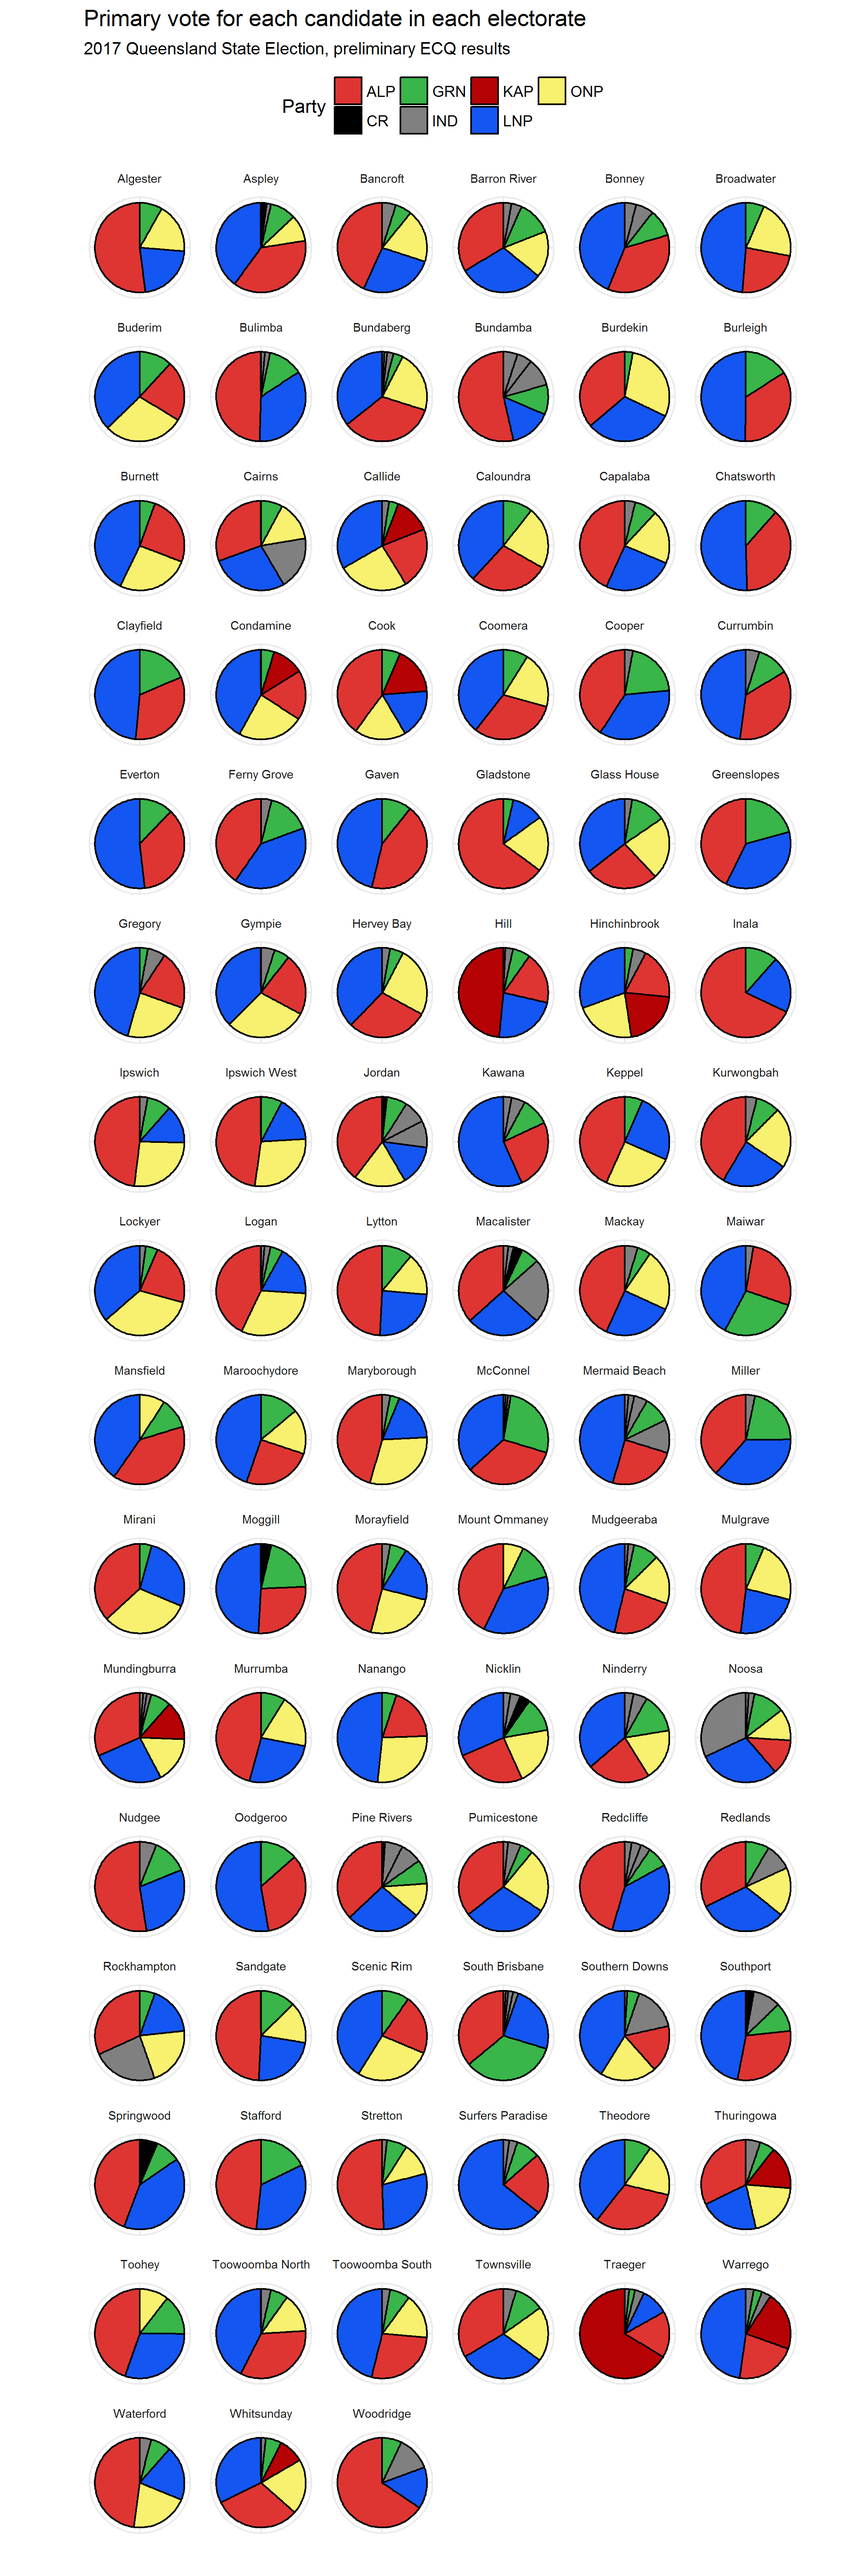
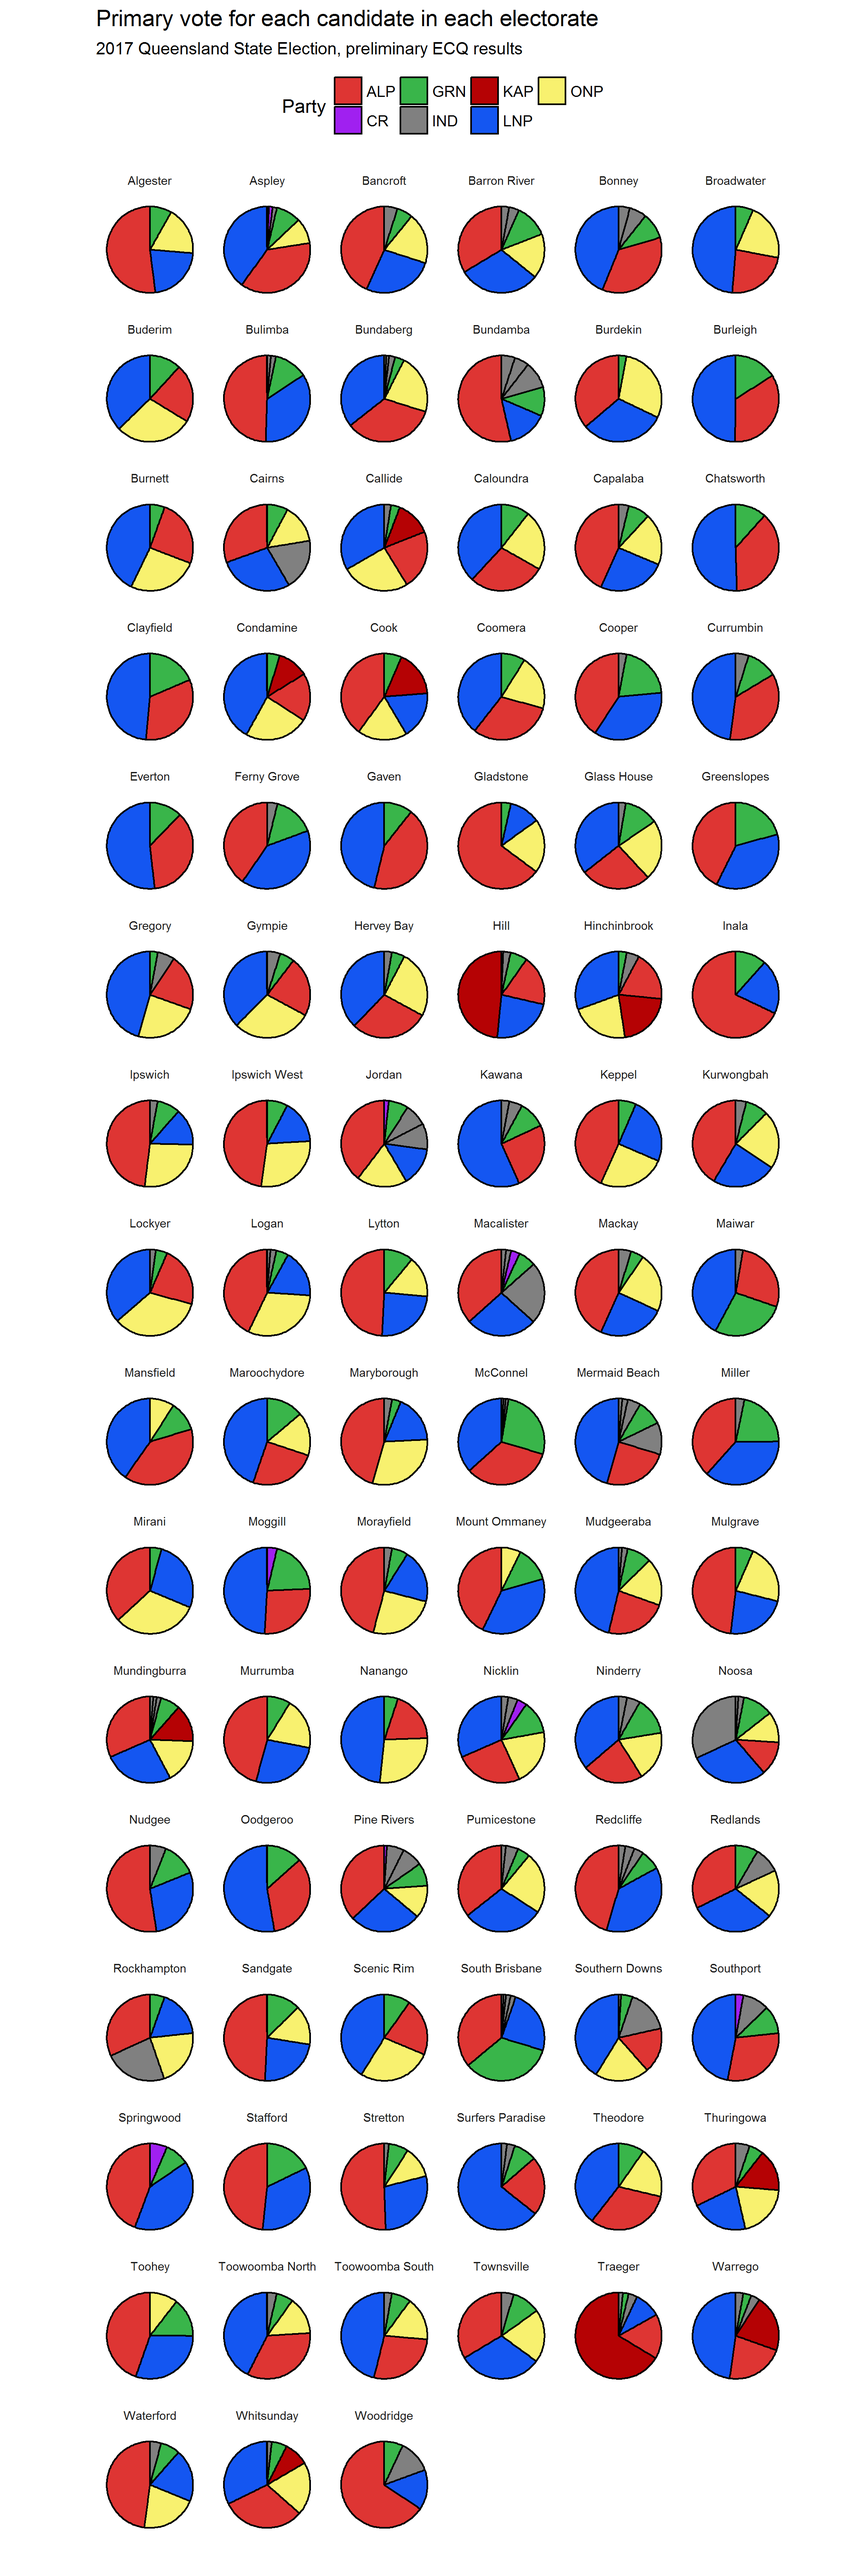
new README

diff --git a/README.md b/README.md
@@ -23,14 +23,13 @@ head(primary_votes)
 We need to choose some colours for each party running. These are taken from the [Wikipedia template](https://en.wikipedia.org/wiki/Category:Australia_political_party_colour_templates) except for `CR`, the Consumer Rights & No-Tolls party.
 
 ``` r
-cols <- unlist(list(
-  ALP = "#DE3533",
-  GRN = "#39b54a",
-  LNP = "#1456F1",
-  IND = "#808080",
-  KAP = "#b50204",
-  ONP = "#F8F16F",
-  CR = "#000000"))
+cols <- unlist(list(ALP = "#DE3533",
+                    GRN = "#39b54a",
+                    LNP = "#1456F1",
+                    IND = "#808080",
+                    KAP = "#b50204",
+                    ONP = "#F8F16F",
+                    CR = "purple"))
 ```
 
 We also need to process the data to show who is independent, and to order the candidates from largest to smallest vote (with 1 being the largest vote)
@@ -58,7 +57,8 @@ ggplot(data=to_plot,
   facet_wrap( ~ Electorate, nrow=16) +
   theme_minimal() + 
   theme(legend.position="top", axis.text = element_blank(), 
-        strip.text = element_text(size=7)) +
+        strip.text = element_text(size=7),
+        panel.grid = element_blank()) +
   scale_fill_manual(values = cols) +
   xlab("") + ylab("") +
   ggtitle(label = "Primary vote for each candidate in each electorate",
